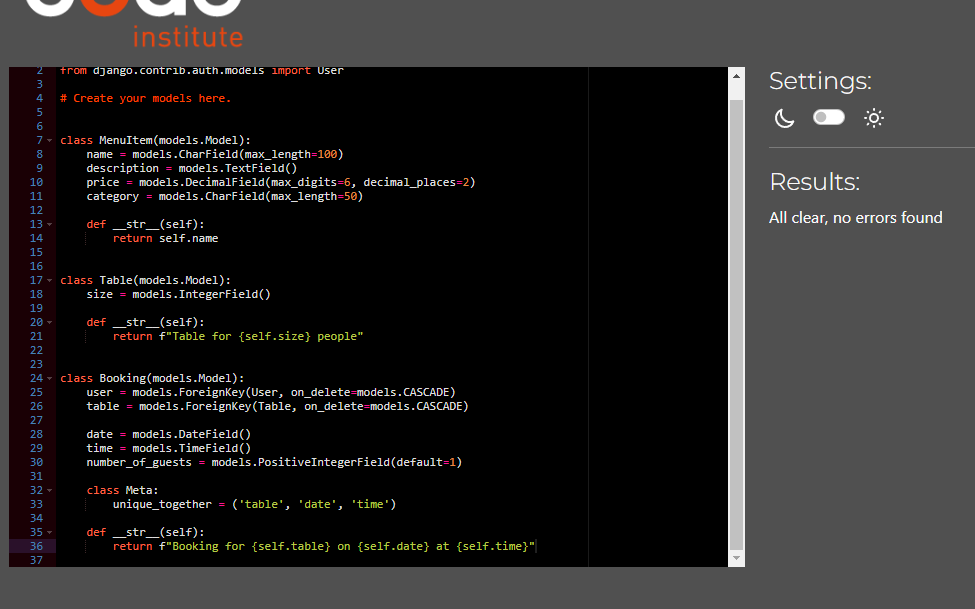
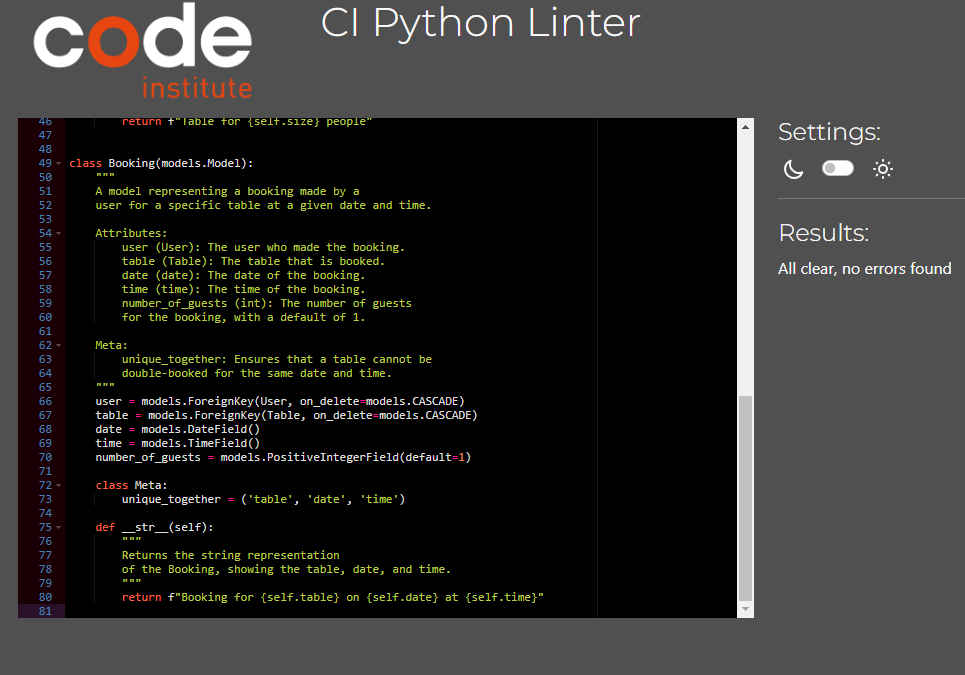
added docstring to models,form, and views

Changed region(s): [[0.0, 0.0, 0.9948, 0.936], [0.342, 0.0, 0.6528, 0.0624]]

diff --git a/bookings/views.py b/bookings/views.py
@@ -9,6 +9,24 @@ from django.core.exceptions import PermissionDenied
 
 @login_required
 def make_booking(request):
+    """
+    Handle the process of making a new booking.
+
+    If the request method is POST, the booking
+    form is validated and a table is selected
+    based on the number of guests and availability
+    If valid, the booking is saved,
+    a confirmation email is sent,
+    and the user is redirected to the booking detail page.
+    Otherwise, the form is re-rendered with error messages.
+
+    Args:
+        request: The HTTP request object.
+
+    Returns:
+        HttpResponse: The rendered booking creation page
+        or a redirect to the booking detail.
+    """
     if request.method == 'POST':
         form = BookingForm(request.POST)
         if form.is_valid():
@@ -44,10 +62,9 @@ def make_booking(request):
                     available_tables, key=lambda table: table.size)
             except ValueError:
                 messages.error(
-                    request,
-                    'An error occurred while selecting a table. Please fix')
+                    request, 'An error occurred while selecting a table.')
                 return render(
-                        request, 'bookings/make_booking.html', {'form': form})
+                    request, 'bookings/make_booking.html', {'form': form})
 
             booking.table = lowest_capacity_table
 
@@ -55,10 +72,7 @@ def make_booking(request):
                 booking.save()
 
                 # Prepare email context
-                context = {
-                    'booking': booking,
-                    'user': request.user
-                }
+                context = {'booking': booking, 'user': request.user}
 
                 # Send confirmation email
                 send_confirmation_mail(
@@ -73,10 +87,8 @@ def make_booking(request):
 
             except Exception as e:
                 messages.error(
-                    request,
-                    f'An error occurred while saving your booking: {e}')
+                    request, f'An error occurred when saving your booking {e}')
 
-        # If the form is not valid, re-render the template with the errors
         return render(request, 'bookings/make_booking.html', {'form': form})
 
     else:
@@ -87,6 +99,23 @@ def make_booking(request):
 
 @login_required
 def delete_booking(request, booking_id):
+    """
+    Handle the deletion of a booking by the user.
+
+    If the request method is POST, the
+    booking is deleted, a cancellation email is sent,
+    and the user is redirected to their
+    bookings page. If the booking doesn't belong
+    to the user, a permission denied exception is raised.
+
+    Args:
+        request: The HTTP request object.
+        booking_id: The ID of the booking to delete.
+
+    Returns:
+        HttpResponse: The rendered delete
+        confirmation page or a redirect to the user's bookings.
+    """
     booking = get_object_or_404(Booking, id=booking_id)
 
     if request.method == 'POST':
@@ -94,12 +123,9 @@ def delete_booking(request, booking_id):
             booking.delete()
 
             # Prepare email context
-            context = {
-                'booking': booking,
-                'user': request.user
-            }
+            context = {'booking': booking, 'user': request.user}
 
-            # Send confirmation email
+            # Send cancellation email
             send_confirmation_mail(
                 subject='Booking Cancelled',
                 recipient_list=[request.user.email],
@@ -109,11 +135,10 @@ def delete_booking(request, booking_id):
 
             messages.success(request, 'Booking deleted successfully.')
             return redirect('my_bookings')
+
         except Exception as e:
             messages.error(
-                request,
-                f'An error occurred while deleting your booking: {e}'
-            )
+                request, f'An error occurred while deleting your booking: {e}')
 
     return render(
         request, 'bookings/delete_booking.html', {'booking': booking})
@@ -121,6 +146,19 @@ def delete_booking(request, booking_id):
 
 @login_required
 def booking_detail(request, booking_id):
+    """
+    Display the details of a specific booking.
+
+    If the booking doesn't belong to the
+    logged-in user, a permission denied exception is raised.
+
+    Args:
+        request: The HTTP request object.
+        booking_id: The ID of the booking to view.
+
+    Returns:
+        HttpResponse: The rendered booking detail page.
+    """
     booking = get_object_or_404(Booking, id=booking_id)
     if booking.user != request.user:
         raise PermissionDenied()
@@ -129,25 +167,47 @@ def booking_detail(request, booking_id):
 
 
 def menu(request):
+    """
+    Display the restaurant's menu items.
+
+    Args:
+        request: The HTTP request object.
+
+    Returns:
+        HttpResponse: The rendered menu page with a list of all menu items.
+    """
     menu_items = MenuItem.objects.all()
     return render(request, 'bookings/menu.html', {'menu_items': menu_items})
 
 
 @login_required
 def edit_booking(request, booking_id):
+    """
+    Handle the editing of an existing booking.
+
+    If the booking belongs to the user,
+    the form is displayed for editing. On POST, the updated
+    booking is saved and a confirmation email
+    is sent. If the booking doesn't belong to the user,
+    a permission denied exception is raised.
+
+    Args:
+        request: The HTTP request object.
+        booking_id: The ID of the booking to edit.
+
+    Returns:
+        HttpResponse: The rendered edit booking page
+        or a redirect to the booking detail page.
+    """
     booking = get_object_or_404(Booking, id=booking_id)
     if booking.user == request.user:
-
         if request.method == 'POST':
             form = BookingForm(request.POST, instance=booking)
             if form.is_valid():
                 form.save()
 
                 # Send confirmation email
-                context = {
-                    'booking': booking,
-                    'user': request.user
-                }
+                context = {'booking': booking, 'user': request.user}
                 send_confirmation_mail(
                     subject='Booking Updated',
                     recipient_list=[request.user.email],
@@ -167,37 +227,17 @@ def edit_booking(request, booking_id):
 
 
 @login_required
-def delete_booking(request, booking_id):
-    booking = get_object_or_404(Booking, id=booking_id)
-    if booking.user == request.user:
-
-        if request.method == 'POST':
-            booking.delete()
-
-            # Send confirmation email
-            context = {
-                'booking': booking,
-                'user': request.user
-            }
-            send_confirmation_mail(
-                subject='Booking Cancelled',
-                recipient_list=[request.user.email],
-                context=context,
-                template_name='emails/booking_cancellation.html'
-            )
-
-            messages.success(request, 'Booking deleted successfully.')
-            return redirect('my_bookings')
-
-    else:
-        raise PermissionDenied()
-    return render(
-        request, 'bookings/delete_booking.html', {'booking': booking})
-    user = request.user
-
-
-@login_required
 def my_bookings(request):
+    """
+    Display a list of all bookings made
+    by the logged-in user, ordered by date and time.
+
+    Args:
+        request: The HTTP request object.
+
+    Returns:
+        HttpResponse: The rendered page showing the user's bookings.
+    """
     user = request.user
     bookings = Booking.objects.filter(user=user).order_by('-date', '-time')
     return render(request, 'bookings/my_bookings.html', {'bookings': bookings})

diff --git a/bookings/models.py b/bookings/models.py
@@ -5,26 +5,66 @@ from django.contrib.auth.models import User
 
 
 class MenuItem(models.Model):
+    """
+    A model representing an item on a menu.
+
+    Attributes:
+        name (str): The name of the menu item.
+        description (str): A detailed description of the menu item.
+        price (Decimal): The price of the item, with a maximum of
+        6 digits and 2 decimal places.
+        category (str): The category of the menu item
+        (e.g., Appetizer, Main Course, Dessert).
+    """
     name = models.CharField(max_length=100)
     description = models.TextField()
     price = models.DecimalField(max_digits=6, decimal_places=2)
     category = models.CharField(max_length=50)
 
     def __str__(self):
+        """
+        Returns the string representation of the MenuItem, which is the
+        name of the item.
+        """
         return self.name
 
 
 class Table(models.Model):
+    """
+    A model representing a table in the restaurant.
+
+    Attributes:
+        size (int): The number of people the table can accommodate.
+    """
     size = models.IntegerField()
 
     def __str__(self):
+        """
+        Returns the string representation of the Table, showing the
+        number of people it can accommodate.
+        """
         return f"Table for {self.size} people"
 
 
 class Booking(models.Model):
+    """
+    A model representing a booking made by a
+    user for a specific table at a given date and time.
+
+    Attributes:
+        user (User): The user who made the booking.
+        table (Table): The table that is booked.
+        date (date): The date of the booking.
+        time (time): The time of the booking.
+        number_of_guests (int): The number of guests
+        for the booking, with a default of 1.
+
+    Meta:
+        unique_together: Ensures that a table cannot be
+        double-booked for the same date and time.
+    """
     user = models.ForeignKey(User, on_delete=models.CASCADE)
     table = models.ForeignKey(Table, on_delete=models.CASCADE)
-
     date = models.DateField()
     time = models.TimeField()
     number_of_guests = models.PositiveIntegerField(default=1)
@@ -33,4 +73,8 @@ class Booking(models.Model):
         unique_together = ('table', 'date', 'time')
 
     def __str__(self):
+        """
+        Returns the string representation
+        of the Booking, showing the table, date, and time.
+        """
         return f"Booking for {self.table} on {self.date} at {self.time}"

diff --git a/bookings/widgets.py b/bookings/widgets.py
@@ -4,12 +4,36 @@ from datetime import datetime, timedelta
 
 
 class TimeSelectWidget(forms.Select):
+    """
+    A custom Django form widget for selecting time intervals.
+
+    This widget generates time intervals between 08:00 and 23:00 in 30-minute
+    increments and displays them as options in a select dropdown menu.
+
+    Attributes:
+        choices: A list of tuples representing the time intervals in the
+        format (HH:MM, HH:MM), which is passed to the parent Select widget.
+    """
     def __init__(self, *args, **kwargs):
+        """
+        Initializes the TimeSelectWidget with time intervals as choices.
+
+        Args:
+            *args: Variable length argument list for base widget.
+            **kwargs: Arbitrary keyword arguments passed to the base widget.
+        """
         time_intervals = self.generate_time_intervals()
         kwargs['choices'] = time_intervals
         super().__init__(*args, **kwargs)
 
     def generate_time_intervals(self):
+        """
+        Generates a list of 30-minute time intervals from 08:00 to 23:00.
+
+        Returns:
+            A list of tuples where each tuple contains the time in HH:MM format
+            for both the value and the display label.
+        """
         intervals = []
         current_time = datetime.strptime('08:00', '%H:%M')
         end_time = datetime.strptime('23:00', '%H:%M')
